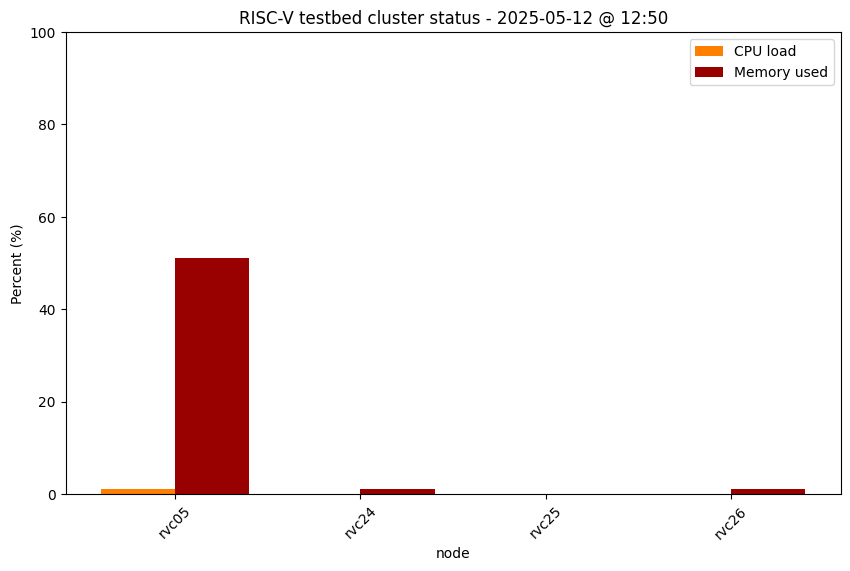
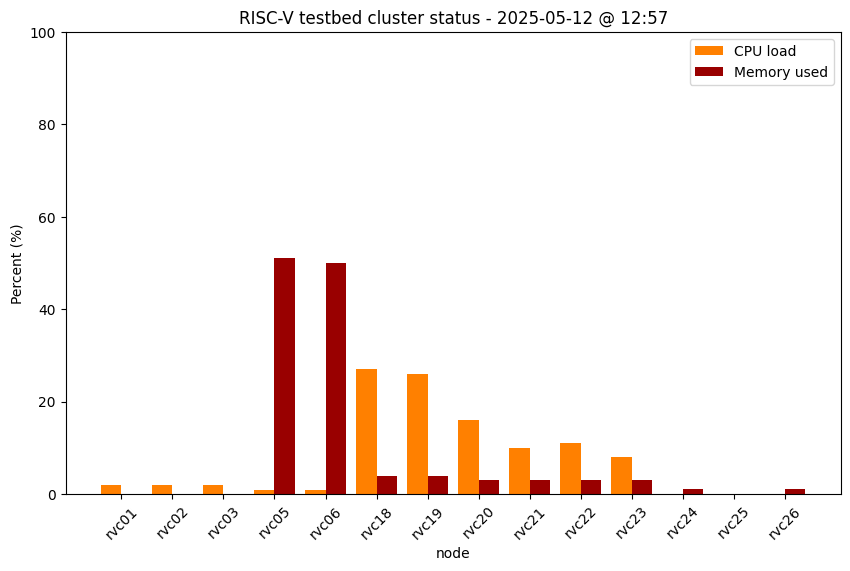
Update cluster status

diff --git a/status.md b/status.md
@@ -13,12 +13,12 @@ permalink: /status/
 
 | Description  | Hostname | # of cores | DRAM | Status |
 | ------------- | ------------- |  ------------- | ------------- | ------------- | 
-| Banana Pi BPI-F3 #1 | rvc01 | 8 | 16GB | <img src="/images/off.png" alt="red light" width="10"/> down |
-| Milk-V Jupiter #1 | rvc02 | 8 | 16GB | <img src="/images/off.png" alt="red light" width="10"/> down |
-| Milk-V Jupiter #2 | rvc03 | 8 | 16GB | <img src="/images/off.png" alt="red light" width="10"/> down |
+| Banana Pi BPI-F3 #1 | rvc01 | 8 | 16GB | <img src="/images/on.png" alt="green light" width="10"/> up |
+| Milk-V Jupiter #1 | rvc02 | 8 | 16GB | <img src="/images/on.png" alt="green light" width="10"/> up |
+| Milk-V Jupiter #2 | rvc03 | 8 | 16GB | <img src="/images/on.png" alt="green light" width="10"/> up |
 | DongshanNezhaSTU #4 | rvc04 | 1 | 512MB | <img src="/images/amber.png" alt="amber light" width="10"/> offline |
 | MangoPi MQ-Pro #1 | rvc05 | 1 | 1GB | <img src="/images/on.png" alt="green light" width="10"/> up |
-| MangoPi MQ-Pro #2 | rvc06 | 1 | 1GB | <img src="/images/off.png" alt="red light" width="10"/> down |
+| MangoPi MQ-Pro #2 | rvc06 | 1 | 1GB | <img src="/images/on.png" alt="green light" width="10"/> up |
 | StarFive VisionFive V1 #1 | rvc07 | 2 | 8GB | <img src="/images/off.png" alt="red light" width="10"/> down |
 | StarFive VisionFive V1 #2 | rvc08 | 2 | 8GB | <img src="/images/off.png" alt="red light" width="10"/> down |
 | StarFive VisionFive V1 #3 | rvc09 | 2 | 8GB | <img src="/images/amber.png" alt="amber light" width="10"/> offline |
@@ -30,12 +30,12 @@ permalink: /status/
 | StarFive VisionFive V2 #5 | rvc15 | 4 | 8GB | <img src="/images/off.png" alt="red light" width="10"/> down |
 | StarFive VisionFive V2 #6 | rvc16 | 4 | 8GB | <img src="/images/off.png" alt="red light" width="10"/> down |
 | StarFive VisionFive V2 #7 | rvc17 | 4 | 8GB | <img src="/images/off.png" alt="red light" width="10"/> down |
-| StarFive VisionFive V2 #8 | rvc18 | 4 | 8GB | <img src="/images/off.png" alt="red light" width="10"/> down |
-| StarFive VisionFive V2 #9 | rvc19 | 4 | 8GB | <img src="/images/off.png" alt="red light" width="10"/> down |
-| StarFive VisionFive V2 #10 | rvc20 | 4 | 8GB | <img src="/images/off.png" alt="red light" width="10"/> down | 
-| StarFive VisionFive V2 #11 | rvc21 | 4 | 8GB | <img src="/images/off.png" alt="red light" width="10"/> down |
-| StarFive VisionFive V2 #12 | rvc22 | 4 | 8GB | <img src="/images/off.png" alt="red light" width="10"/> down |
-| StarFive VisionFive V2 #13 | rvc23 | 4 | 8GB | <img src="/images/off.png" alt="red light" width="10"/> down |
+| StarFive VisionFive V2 #8 | rvc18 | 4 | 8GB | <img src="/images/on.png" alt="green light" width="10"/> up |
+| StarFive VisionFive V2 #9 | rvc19 | 4 | 8GB | <img src="/images/on.png" alt="green light" width="10"/> up |
+| StarFive VisionFive V2 #10 | rvc20 | 4 | 8GB | <img src="/images/on.png" alt="green light" width="10"/> up | 
+| StarFive VisionFive V2 #11 | rvc21 | 4 | 8GB | <img src="/images/on.png" alt="green light" width="10"/> up |
+| StarFive VisionFive V2 #12 | rvc22 | 4 | 8GB | <img src="/images/on.png" alt="green light" width="10"/> up |
+| StarFive VisionFive V2 #13 | rvc23 | 4 | 8GB | <img src="/images/on.png" alt="green light" width="10"/> up |
 | Milk-V Pioneer #1 | rvc24 | 64 | 128GB | <img src="/images/on.png" alt="green light" width="10"/> up |
 | Milk-V Pioneer #2 | rvc25 | 64 | 128GB | <img src="/images/on.png" alt="green light" width="10"/> up |
 | Milk-V Pioneer #3 | rvc26 | 64 | 128GB | <img src="/images/on.png" alt="green light" width="10"/> up |
